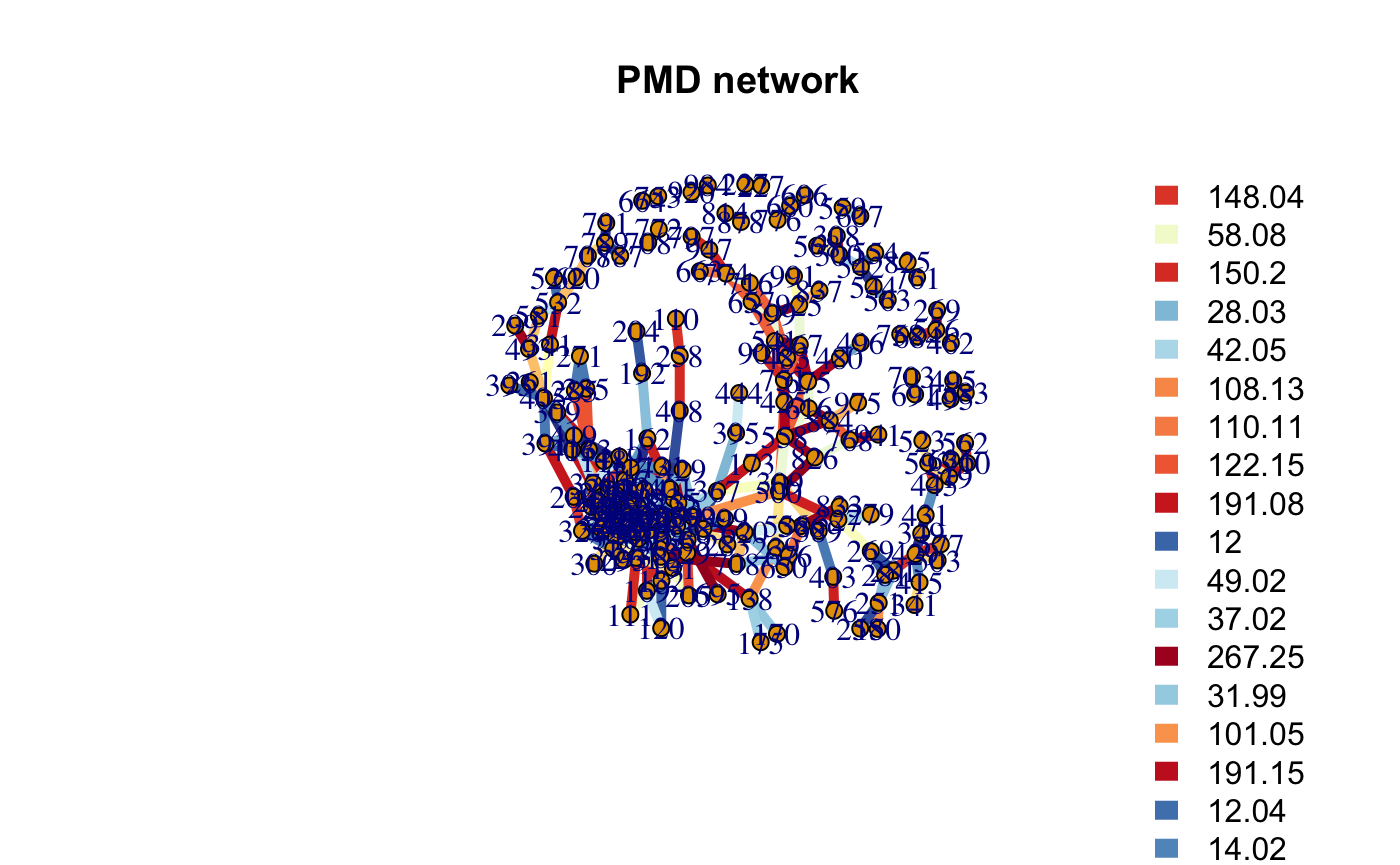
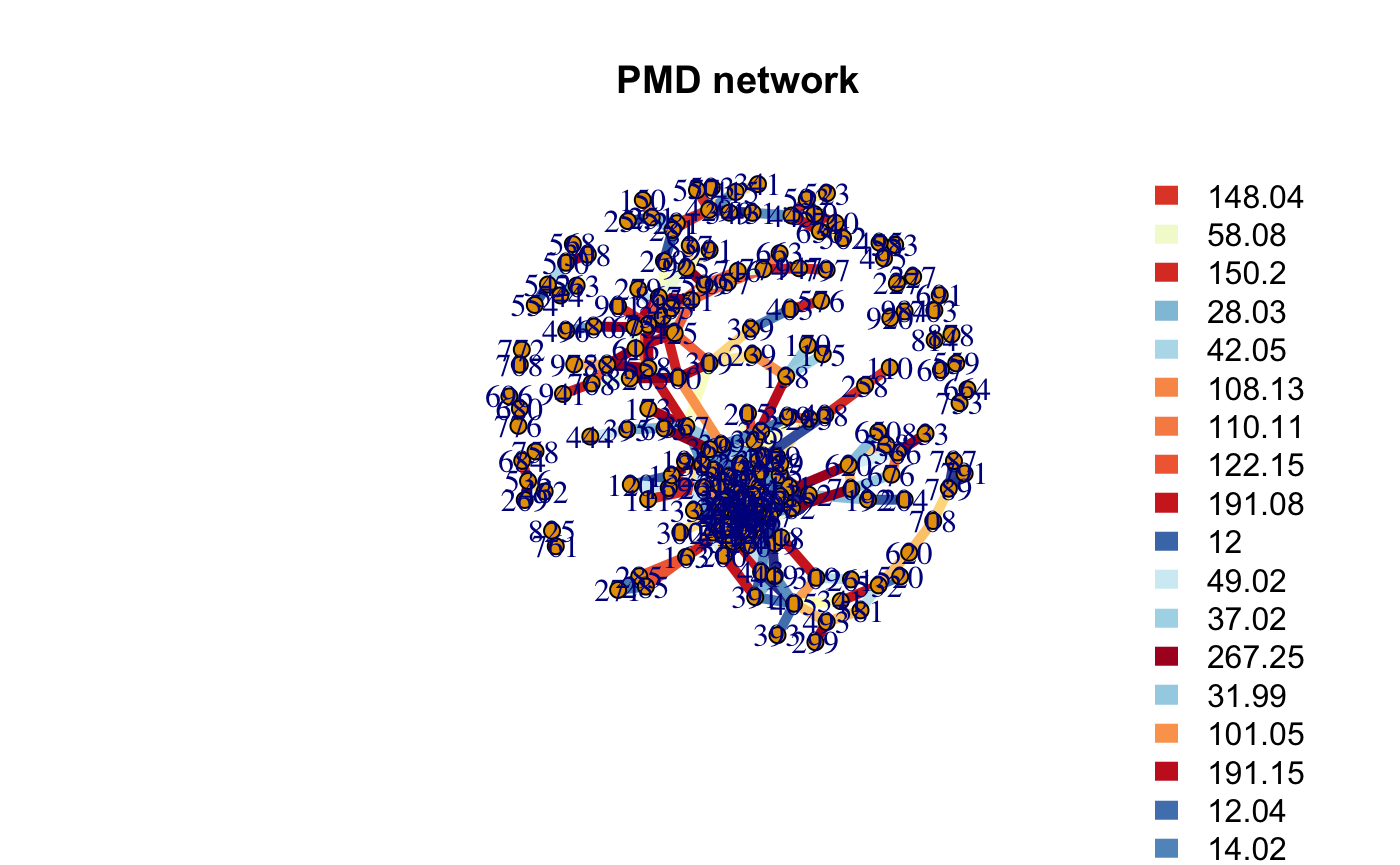
update

Changed region(s): [[0.3379, 0.1873, 0.7064, 0.7491]]

diff --git a/docs/articles/globalstd.html b/docs/articles/globalstd.html
@@ -91,7 +91,7 @@
       <h1 data-toc-skip>Paired Mass Distance(PMD) analysis for GC/LC-MS based non-targeted analysis</h1>
                         <h4 class="author">Miao Yu</h4>
             
-            <h4 class="date">2020-05-27</h4>
+            <h4 class="date">2020-06-04</h4>
       
       <small class="dont-index">Source: <a href="https://github.com/yufree/pmd/blob/master/vignettes/globalstd.Rmd"><code>vignettes/globalstd.Rmd</code></a></small>
       <div class="hidden name"><code>globalstd.Rmd</code></div>
@@ -209,56 +209,28 @@
 <span class="fu"><a href="https://rdrr.io/r/base/table.html">table</a></span>(<span class="no">index</span>)
 <span class="co">#&gt; index</span>
 <span class="co">#&gt;  1  2  3  4  5  6  7  8  9 10 </span>
-<span class="co">#&gt; 36 21 24 30 26 45 35 28 31 21</span>
+<span class="co">#&gt; 14 36 41 35 27 23 31 35 30 25</span>
 <span class="co"># show the ions for the first injection</span>
 <span class="no">std</span>$<span class="no">mz</span>[<span class="no">index</span><span class="kw">==</span><span class="fl">1</span>]
-<span class="co">#&gt;   [1] 100.0763 100.5107 111.0203 132.0050 133.0794 136.0492 138.0549 139.9877</span>
-<span class="co">#&gt;   [9] 140.0600 146.1183 154.0586 158.9638 162.0558 162.1128 166.4658 168.0923</span>
-<span class="co">#&gt;  [17] 168.9988 170.1541 173.1335 174.1363 175.0873 180.1027 193.1597 205.1954</span>
-<span class="co">#&gt;  [25] 214.9181 220.1184 226.1822 226.9522 227.9565 228.9561 229.2008 236.9406</span>
-<span class="co">#&gt;  [33] 237.6615 244.1921 251.0476 252.0721 262.2258 263.2015 267.2693 270.3185</span>
-<span class="co">#&gt;  [41] 270.3185 270.3184 271.3217 271.9179 272.0665 274.8744 278.2482 283.2841</span>
-<span class="co">#&gt;  [49] 285.3002 286.3101 286.9218 293.1755 293.2853 295.1910 297.2985 299.9249</span>
-<span class="co">#&gt;  [57] 301.9077 305.3118 311.2560 322.3185 329.2492 334.3101 336.3259 337.1058</span>
-<span class="co">#&gt;  [65] 338.3435 339.3477 339.6388 342.0183 342.3637 355.0696 359.2410 362.3032</span>
-<span class="co">#&gt;  [73] 372.3197 372.3478 378.9015 386.3523 387.2851 390.2490 393.2990 394.4045</span>
-<span class="co">#&gt;  [81] 394.8754 399.2514 401.3421 409.1624 413.2660 414.2705 417.2462 418.9952</span>
-<span class="co">#&gt;  [89] 419.3165 421.2521 425.2153 426.2189 429.2404 431.1792 444.3844 453.3436</span>
-<span class="co">#&gt;  [97] 470.1010 479.2613 488.3591 492.8839 494.8112 494.8112 494.8113 502.3382</span>
-<span class="co">#&gt; [105] 503.3190 520.2968 527.1586 532.3865 543.4015 544.3398 554.2887 563.1820</span>
-<span class="co">#&gt; [113] 564.1885 565.3827 567.5729 568.3399 568.8923 576.4110 580.1907 590.3223</span>
-<span class="co">#&gt; [121] 597.8743 599.4366 604.4152 607.4028 607.4262 611.1844 614.5358 616.4645</span>
-<span class="co">#&gt; [129] 620.6167 629.8618 647.4366 665.4606 677.6839 681.4675 686.2013 689.8645</span>
-<span class="co">#&gt; [137] 692.8343 695.5039 695.6533 703.6382 704.1390 714.4484 729.6484 731.8438</span>
-<span class="co">#&gt; [145] 758.3546 758.4735 766.3701 776.2314 777.3853 780.8078 787.5110 788.5237</span>
-<span class="co">#&gt; [153] 789.5260 793.5135 798.3265 811.5099 820.8196 825.3507 832.3212 836.3301</span>
-<span class="co">#&gt; [161] 836.5243 839.1707 840.8392 841.8196 847.8263 861.5014 873.8334 889.8086</span>
-<span class="co">#&gt; [169] 911.7489 917.7920 924.7999 925.7373 934.3019 938.7728 939.7749 948.8063</span>
-<span class="co">#&gt; [177] 949.8072 979.7901 991.7894 998.1412</span>
+<span class="co">#&gt;  [1] 157.4607 165.0787 170.0330 174.9383 174.9728 186.1854 192.1604 203.0532</span>
+<span class="co">#&gt;  [9] 220.9991 226.9522 237.6615 242.2863 244.0288 258.8998 283.2249 286.3101</span>
+<span class="co">#&gt; [17] 294.2875 300.2046 301.1419 309.0913 311.1865 320.3040 335.2953 337.1058</span>
+<span class="co">#&gt; [25] 342.3637 352.3215 354.2845 367.3373 407.3384 416.2862 420.3193 427.1184</span>
+<span class="co">#&gt; [33] 428.3378 437.1936 442.3373 449.1148 481.3120 492.8839 503.3190 515.8357</span>
+<span class="co">#&gt; [41] 519.1401 539.1646 587.8828 600.8824 608.4285 617.4657 619.6137 638.3081</span>
+<span class="co">#&gt; [49] 644.8326 663.4897 683.5412 689.8645 704.1390 710.2184 712.8208 741.8363</span>
+<span class="co">#&gt; [57] 809.8222 828.8075 837.5278 845.5232 846.8256 868.4448 873.3343 886.7613</span>
+<span class="co">#&gt; [65] 920.8140 925.7373 949.8072 974.8148 976.8122</span>
 <span class="no">std</span>$<span class="no">rt</span>[<span class="no">index</span><span class="kw">==</span><span class="fl">1</span>]
-<span class="co">#&gt;   [1] 170.1810  86.3490  86.1350  49.4910 212.6560 212.7820 511.2940  84.8490</span>
-<span class="co">#&gt;   [9] 511.0515 288.1300 212.6560 213.7130 430.6780 256.1585 144.0560 511.2940</span>
-<span class="co">#&gt;  [17] 135.4660 638.9930 611.4120 611.4135 511.2940 553.3400 614.2000 639.1010</span>
-<span class="co">#&gt;  [25]  76.9220 170.8240 416.1050 213.9270 213.7270 213.9650 614.6260 147.8960</span>
-<span class="co">#&gt;  [33] 639.6355 614.8420 605.8400 678.3130 556.7670 592.9810 633.3765 699.3160</span>
-<span class="co">#&gt;  [41] 823.9060 465.0070 699.9580  76.1710 141.0400 218.5540 559.5550 639.3120</span>
-<span class="co">#&gt;  [49] 716.7800 631.8770 146.5170 553.5540 618.2710 518.1520 639.3130 146.2780</span>
-<span class="co">#&gt;  [57] 144.1250 639.1000 585.6975 639.1000 596.4120 608.1990 594.9125 543.4380</span>
-<span class="co">#&gt;  [65] 639.1010 639.1000 639.0990 717.1025 658.6000 819.6220 213.7505 613.1270</span>
-<span class="co">#&gt;  [73] 659.8815 523.5950 215.8460 644.4580 492.8650 534.0100 659.6730 682.3135</span>
-<span class="co">#&gt;  [81] 217.1550 551.4100 632.8410 482.4185 665.0290 665.0280 444.6075 819.1920</span>
-<span class="co">#&gt;  [89] 687.9570 634.3425 601.3390 601.1275 665.0270 683.9940 582.4815 170.5045</span>
-<span class="co">#&gt;  [97] 717.1020 557.4110 540.8660 213.7130 772.2180 890.7680 862.5875 511.5080</span>
-<span class="co">#&gt; [105] 440.2150 639.5820 142.3240 537.2240 439.2500 511.2270 512.7940 762.3630</span>
-<span class="co">#&gt; [113] 762.5770 439.2500 735.7900 510.6510 213.7270 534.0090 762.3610 510.4370</span>
-<span class="co">#&gt; [121] 213.2320 454.9350 529.9730 434.9630 613.5560 818.7650 639.0990 454.9350</span>
-<span class="co">#&gt; [129] 618.4850 214.6170 527.7950 800.2900 638.8870 468.5430 883.0525 213.4215</span>
-<span class="co">#&gt; [137] 215.8555 698.3510 639.3120 638.8855 639.1000 525.0080 594.5905 214.1480</span>
-<span class="co">#&gt; [145] 213.5120 522.4370 462.0070 689.2450 474.2205 214.7290 692.6730 730.6470</span>
-<span class="co">#&gt; [153] 730.8590 213.1700 213.7260 682.8535 215.2830 367.0375 213.5140 213.3740</span>
-<span class="co">#&gt; [161] 698.2460 213.1200 213.9270 213.8945 214.7070 213.3395 213.5090 215.2605</span>
-<span class="co">#&gt; [169] 650.4570 215.2080 214.9990 636.9560 213.6405 216.4125 215.9885 214.2010</span>
-<span class="co">#&gt; [177] 214.6300 213.9410 215.3500 213.1700</span></pre></body></html></div>
+<span class="co">#&gt;  [1] 144.3705 511.3690 215.0585 216.1500 145.5380 501.3300 337.3920 144.8840</span>
+<span class="co">#&gt;  [9] 162.0390 213.9270 639.6355 711.5320 212.6665 217.2010 552.2670 895.6960</span>
+<span class="co">#&gt; [17] 618.5915 172.2230 583.7690 568.7680 495.2220 622.7700 582.6960 543.4380</span>
+<span class="co">#&gt; [25] 658.6000 551.4120 749.9320 585.2700 556.9840 169.8320 687.8085 519.0090</span>
+<span class="co">#&gt; [33] 547.1240 507.4370 404.5340 717.1020 513.5445 213.7130 440.2150 144.8960</span>
+<span class="co">#&gt; [41] 762.3620 762.7890 213.5090 213.5090 613.3395 455.1500 618.4840 630.7000</span>
+<span class="co">#&gt; [49] 215.1920 633.5910 551.4100 213.4215 639.1000 883.9070 214.7985 214.1480</span>
+<span class="co">#&gt; [57] 214.1480 215.6670 698.2460 517.5090 214.4150 493.9370 213.5480 217.3700</span>
+<span class="co">#&gt; [65] 213.5930 636.9560 214.6300 213.7130 213.8565</span></pre></body></html></div>
 </div>
 <div id="validation-by-principal-components-analysispca" class="section level3">
 <h3 class="hasAnchor">
